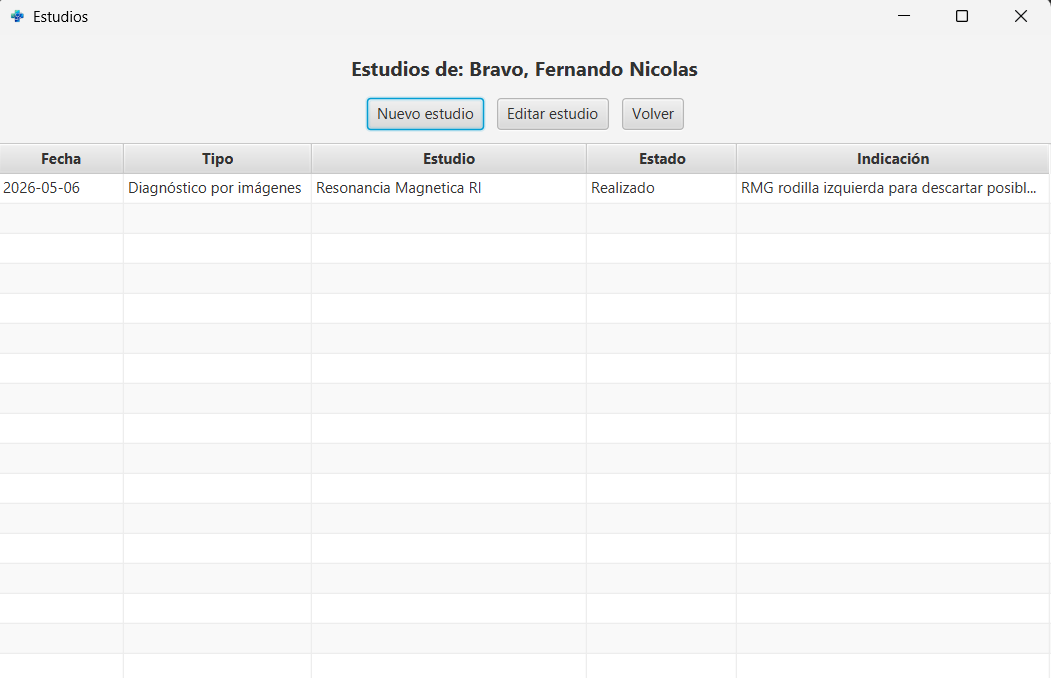
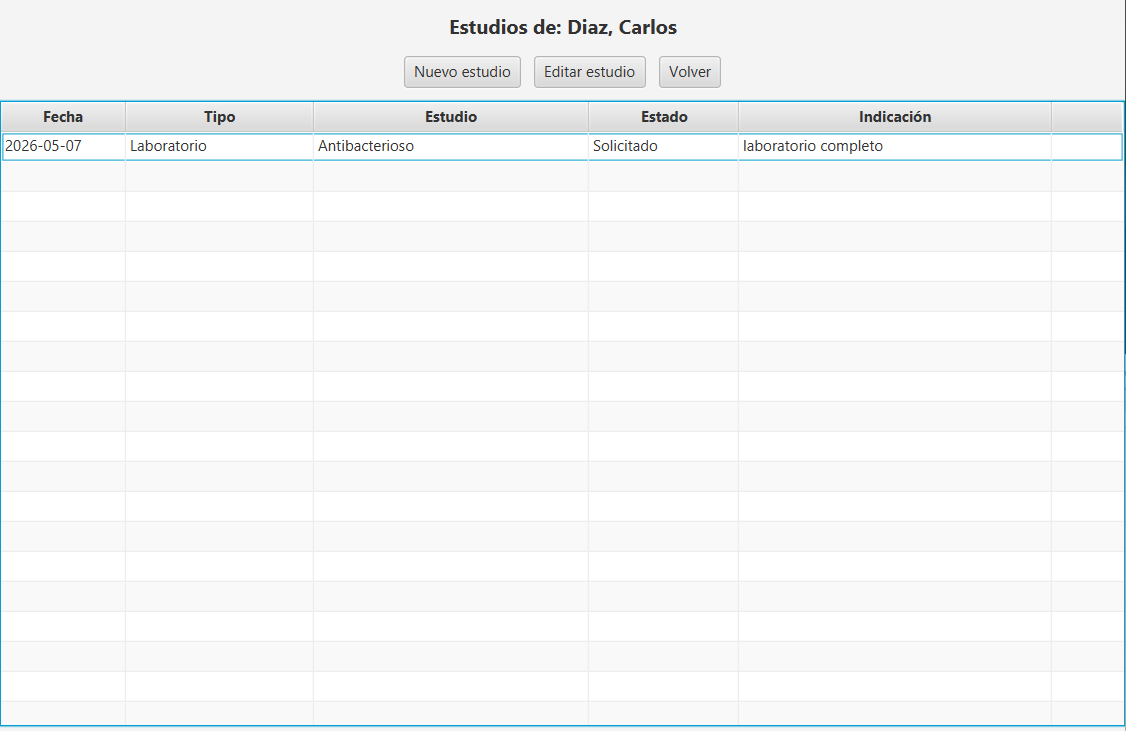
Actualizar documentacion visual del sistema

Changed region(s): [[0.0, 0.0307, 1.0, 0.307], [0.0, 0.9825, 1.0, 1.0], [0.0, 0.0, 0.0913, 0.0307]]

diff --git a/README.md b/README.md
@@ -4,15 +4,17 @@ Aplicación de escritorio desarrollada en JavaFX para la gestión de pacientes, 
 
 ## Funcionalidades
 
-- Alta, edición y búsqueda de pacientes
+- Gestión de pacientes
+- Edición de datos del paciente
 - Búsqueda en tiempo real
-- Vista de detalle del paciente
-- Registro de consultas médicas
-- Edición de consultas
-- Historia clínica por paciente
-- Registro de estudios solicitados
-- Módulo de laboratorio / diagnóstico por imágenes
-- Conexión con base de datos MySQL
+- Historia clínica
+- Registro y edición de consultas
+- Registro de estudios
+- Calendario de vacunación pediátrica
+- Exportación de carnet de vacunación en PDF
+- Sistema de backups
+- Base local SQLite
+- Ejecutable portable para Windows
 
 ## Capturas
 
@@ -36,6 +38,26 @@ Aplicación de escritorio desarrollada en JavaFX para la gestión de pacientes, 
 - Maven
 - MySQL
 - JDBC
+
+## Módulos del sistema
+
+### Gestión de Pacientes
+Permite registrar, editar y consultar pacientes. Incluye búsqueda en tiempo real por nombre, apellido o DNI.
+
+### Historia Clínica
+Permite almacenar consultas médicas, diagnósticos, tratamientos y observaciones.
+
+### Estudios Médicos
+Registro de estudios solicitados, resultados y observaciones asociadas al paciente.
+
+### Vacunación Pediátrica
+Control de vacunas aplicadas, pendientes y próximas según el calendario nacional argentino.
+
+### Exportación PDF
+Generación de carnet de vacunación en formato PDF para impresión o entrega digital.
+
+### Sistema de Backups
+Creación automática de copias de seguridad de la base SQLite para evitar pérdida de información.
 
 ## Ejecución del proyecto
 
